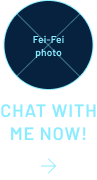
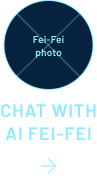
updated

Changed region(s): [[0.2474, 0.6944, 0.9588, 0.7778], [0.0619, 0.6944, 0.2165, 0.7778]]

diff --git a/index.html b/index.html
@@ -63,9 +63,9 @@
                 <div class="row">
                     <img class="full-width" src="assets/images/landing-kv.png" alt="">
                     <div class="col-5 kv-text">
-                        <div class="flex"><h5>Fei Fei Quote</h5><div class="line"></div></div>
+                        <div class="flex"><h5>Fei-Fei's Quote</h5><div class="line"></div></div>
                         <h1>I believe in human-centered AI to benefit people in positive and benevolent ways.</h1>
-                        <button class="main-btn">Chat with me</button>
+                        <button class="main-btn">Chat with AI Fei-Fei</button>
                     </div>
                 </div>
             </div>
@@ -76,10 +76,10 @@
         <!-- About -->
         <div class="container">
             <div class="row about section-padding flex">
-                    <div class="col-6 flex-col">
+                    <div class="col-lg-6 col-12 flex-col">
                         <img class="full-width" src="assets/images/landing-about.png" alt=""> 
                     </div>
-                    <div class="col-6 about-text">
+                    <div class="col-lg-6 col-12 about-text">
                         <h1>Get to know Fei-Fei!</h1>
                         <p>Fei-Fei Li, Stanford computer scientist, pioneers AI and computer vision, advancing image recognition. She emphasizes ethical AI, reshaping technology responsibly.</p>
                         <button class="main-btn">Learn more</button>
@@ -132,7 +132,7 @@
         <!-- Projects -->
         <div class="container">
             <div class="row section-padding">
-                <div class="col-6 landing-research">
+                <div class="col-lg-6 col-12 landing-research">
                     <img class="full-width" src="assets/images/landing-research.png" alt=""> 
                     <div class="landing-research-text">
                         <h1>Research</h1>
@@ -140,7 +140,7 @@
                         <button class="main-btn">Learn More</button>
                     </div>
                 </div>
-                <div class="col-6 landing-research">
+                <div class="col-lg-6 col-12 landing-research">
                     <img class="full-width" src="assets/images/landing-research.png" alt=""> 
                     <div class="landing-research-text">
                         <h1>Publications</h1>
@@ -160,14 +160,14 @@
                 <div class="col-12 text-center title-padding">
                     <h1>Latest News</h1>
                 </div>
-                <div class="col-6">
+                <div class="col-lg-6 col-12">
                     <img class="full-width" src="assets/images/landing-news001.png" alt=""> 
                     <div class="landing-news-item">
                         <h6>Mar 19, 2024</h6>
                         <h5>‘There’s nothing artificial about artificial intelligence’: Fei-Fei Li on ’28 Pre-Read</h5>
                     </div>
                 </div>
-                <div class="col-6 landing-news-Lcol">
+                <div class="col-lg-6 col-12 landing-news-Lcol">
                     <div class="landing-news-item">
                         <h6>Feb 23, 2024</h6>
                         <h5>‘The Worlds I See’ by AI visionary Fei- Fei Li ’99 selected as Princeton Pre-read</h5>
